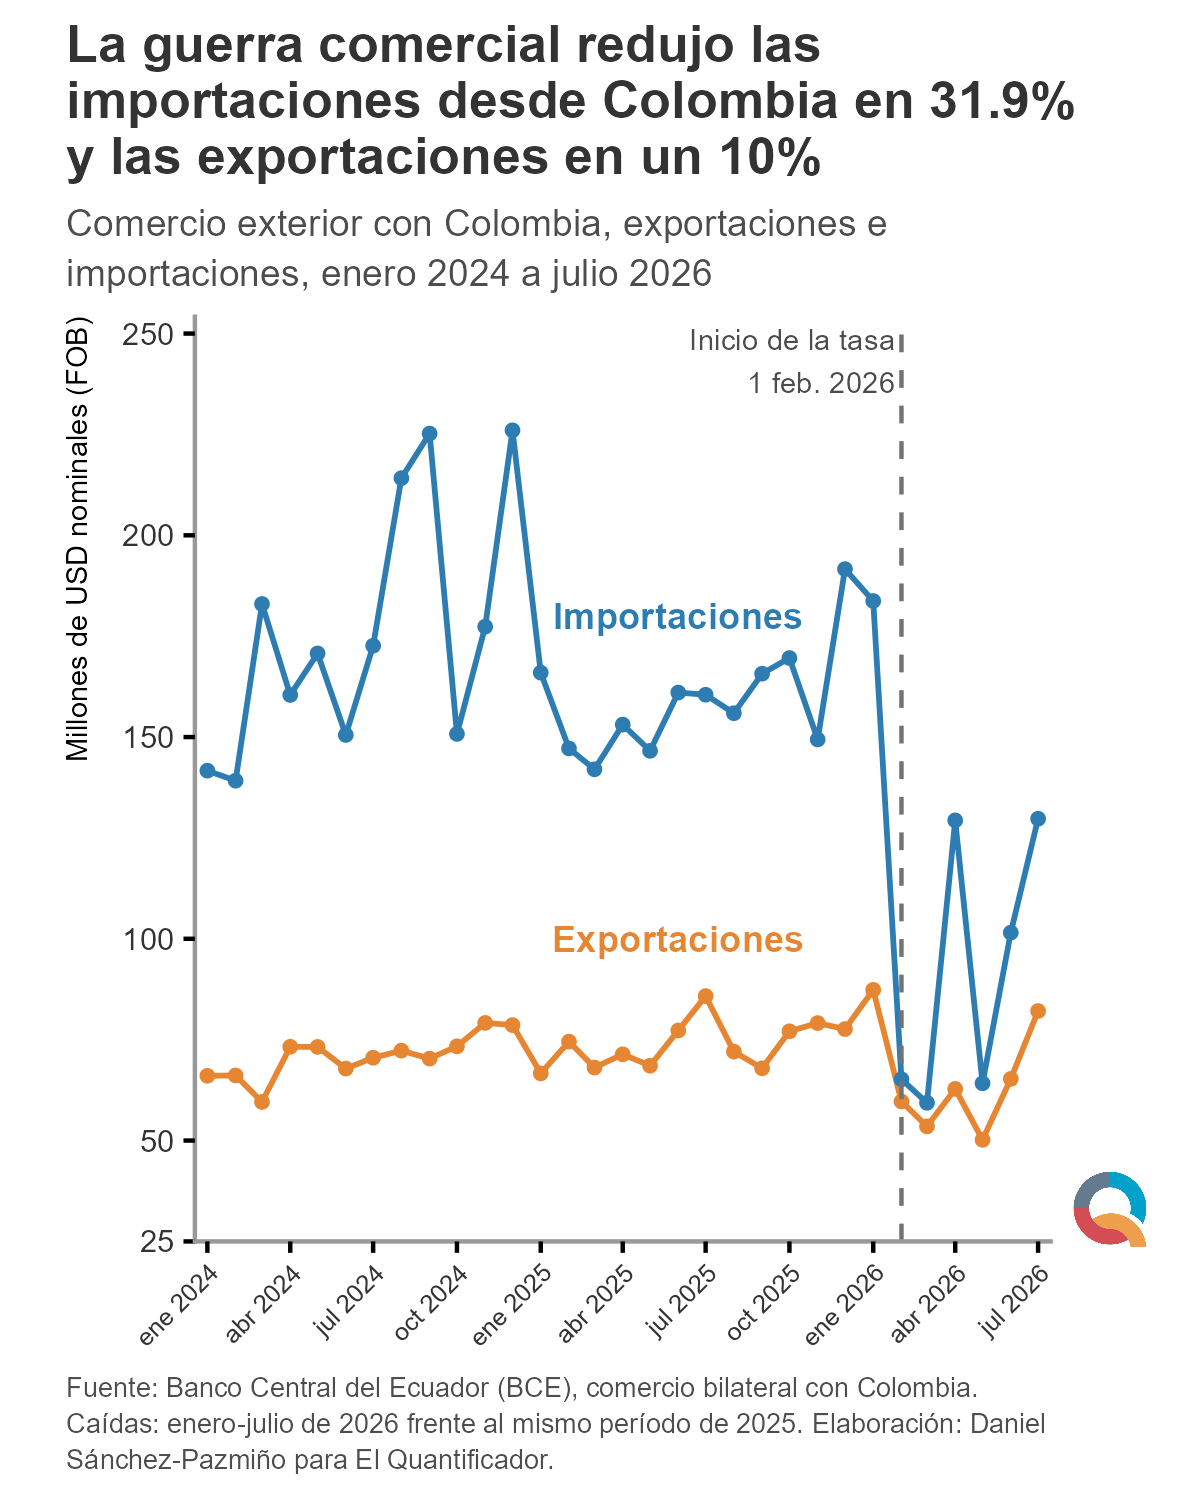
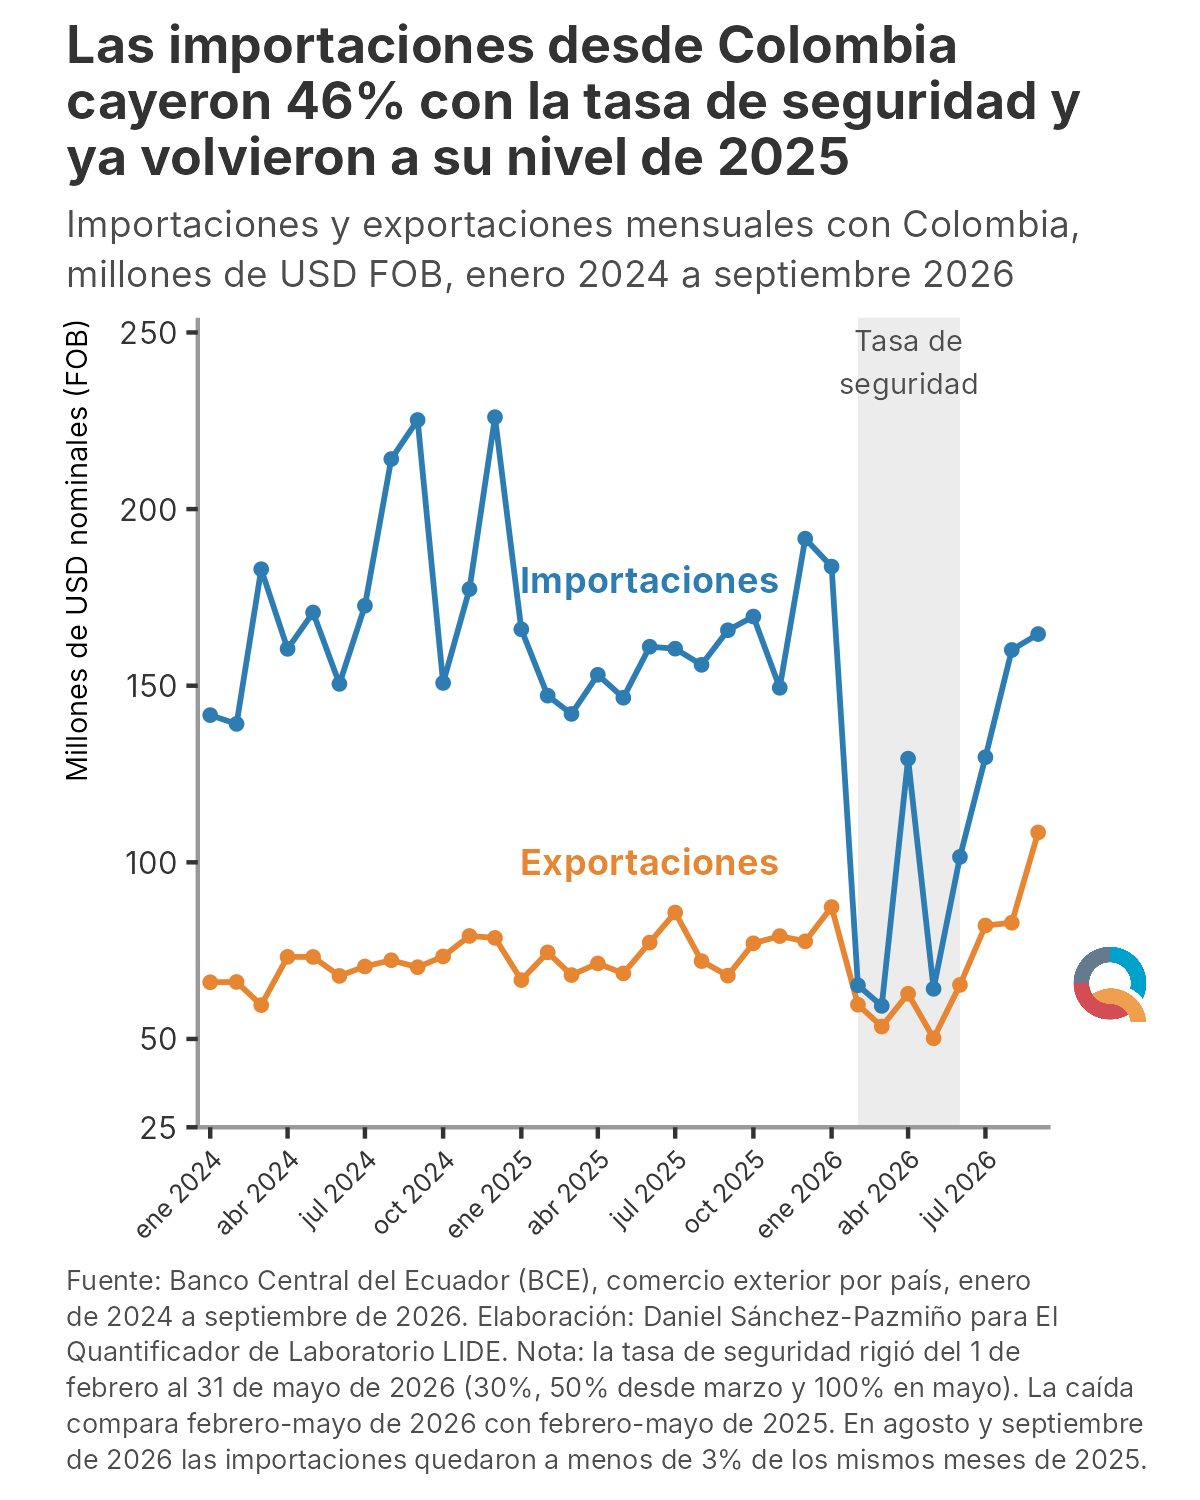
Update Colombia trade chart to September 2026
- Add August and September 2026 BCE values (imports FOB/CIF, exports FOB).
- Reframe the chart: imports fell 46% while the security tax was in force
  (February to May 2026) and are back at 2025 levels after it ended on
  1 June 2026. Shade the tax period behind the lines.
- Shorten the caption, add an optical caption wrap override, and move
  the logo so it no longer overlaps the caption.
- Update catalog row, README and data source note.

Claude-Session: https://claude.ai/code/session_01MVqtYJsmyx5imqUFYpyhBT

diff --git a/data/sources/importaciones_colombia.md b/data/sources/importaciones_colombia.md
@@ -6,7 +6,7 @@ Insumos para la fila 47 del [Pipeline de gráficos El Quantificador](https://doc
 
 Banco Central del Ecuador (BCE), estadísticas de comercio exterior de bienes. Consulta y descarga mediante EcuDataMCP el 1 de octubre de 2026, hora de Edmonton. Las respuestas JSON registran la consulta del 2 de octubre en UTC.
 
-La serie descargada cubre enero de 2024 a julio de 2026, con 31 observaciones mensuales. Julio de 2026 es el último mes devuelto por BCEData al consultar hasta octubre de 2026. Los datos de junio que esperaba la ficha del pipeline ya están disponibles.
+La serie descargada cubre enero de 2024 a julio de 2026, con 31 observaciones mensuales. El 20 de noviembre de 2026 se agregaron agosto y septiembre de 2026 a los dos CSV (consulta de BCEData mediante EcuDataMCP, grupos 87, 78 y 80); julio de 2026 coincidió con el valor ya guardado. La serie queda en 33 observaciones; los JSON y los Excel IEM conservan la descarga original hasta julio. Julio de 2026 es el último mes devuelto por BCEData al consultar hasta octubre de 2026. Los datos de junio que esperaba la ficha del pipeline ya están disponibles.
 
 Los valores están en millones de dólares corrientes:
 
@@ -97,3 +97,7 @@ Ejecuta desde la raíz del repositorio:
 Rscript scripts/data-cleaning/clean_bce_comercio_colombia.R
 Rscript scripts/plots/plot_bce_importaciones_colombia.R
 ```
+
+## Contexto de la tasa de seguridad
+
+Ecuador aplicó una tasa de seguridad a las importaciones desde Colombia del 1 de febrero al 31 de mayo de 2026: 30% en febrero, 50% desde el 1 de marzo y 100% en mayo. La resolución SENAE-SENAE-2026-0051-RE la llevó a 0% desde el 1 de junio de 2026. El gráfico sombrea ese período.

diff --git a/README.md b/README.md
@@ -87,7 +87,7 @@ En preparacion (borradores sin numero hasta su publicacion):
 
 - `55_gta-vi-horas-trabajo-ecuador.png` (horas equivalentes al precio de GTA VI, por provincia, ENEMDU anual 2025; publicado en LinkedIn)
 
-- `draft_importaciones-colombia-ecuador.png` (fila 47 del pipeline, programado para el 4 de noviembre de 2026; importaciones y exportaciones mensuales FOB, enero de 2024 a julio de 2026, en dólares nominales)
+- `draft_importaciones-colombia-ecuador.png` (fila 47 del pipeline; importaciones y exportaciones mensuales FOB con Colombia, enero de 2024 a septiembre de 2026, en dólares nominales, con el período de la tasa de seguridad sombreado)
 - `draft_homicidios-menores-b-evolucion-ecuador.png` (víctimas menores de 18 años de muertes violentas intencionales, enero a septiembre, 2014 a 2026, MDI; autora: Odalis Clemente)
 - `draft_homicidios-menores-a-provincias-ecuador.png` (víctimas menores de 18 años por provincia, enero a septiembre, 2020 a 2026, MDI; autora: Odalis Clemente)
 
